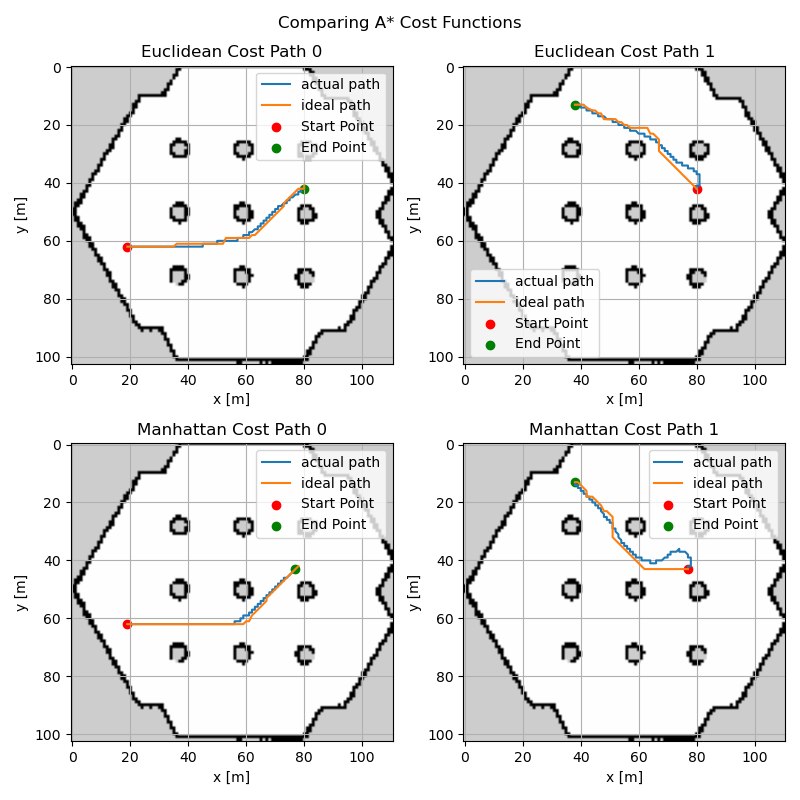
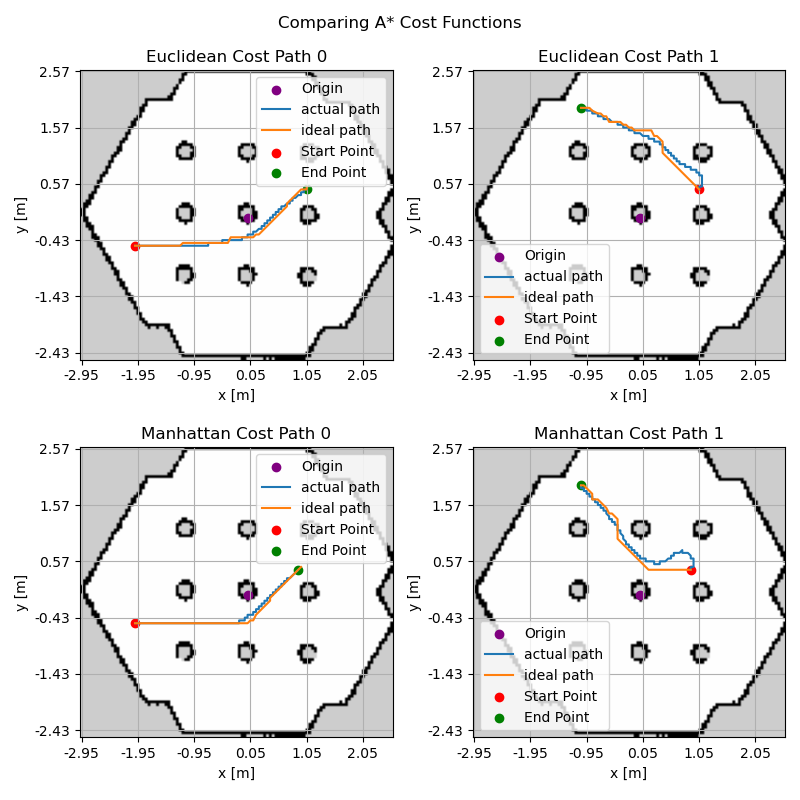
make plot ticks in meters

diff --git a/plot_planning.py b/plot_planning.py
@@ -1,17 +1,30 @@
 import matplotlib.pyplot as plt
-import matplotlib.image as mpimg
+from matplotlib.ticker import FormatStrFormatter
+import matplotlib.ticker as ticker
 import numpy as np
 from utilities import FileReader
 from mapUtilities import mapManipulator
 import rclpy
 
-def plot_planning(map_utilities, ideal, fname, ax, title):
-    # plot map
+
+def plot_planning(map_utilities, ideal, fname, ax: plt.Axes, title):
     width, height, max_value, pixels = map_utilities.read_pgm("room.pgm")
     map_data = np.array(pixels, dtype=np.uint8).reshape((height, width))
-
-    ax.imshow(map_data, cmap="gray", vmin=0, vmax=max_value)
     
+    # do way too much work to see distance on the x and y ticks
+    ticks_x = ticker.FuncFormatter(lambda x, pos: '{0:.2f}'.format(map_utilities.cell_2_position((x, 0))[0]))
+    ax.xaxis.set_major_formatter(ticks_x)
+
+    ticks_y = ticker.FuncFormatter(lambda y, pos: '{0:.2f}'.format(map_utilities.cell_2_position((0, y))[1]))
+    ax.yaxis.set_major_formatter(ticks_y)
+
+    # plot map
+    ax.imshow(map_data, cmap="gray", vmin=0, vmax=max_value)
+
+    # plot origin
+    origin = map_utilities.position_2_cell((0, 0))
+    ax.scatter(*origin, label="Origin", c="purple")
+
     # plot actual path
     headers, values=FileReader(fname).read_file()
     values = np.array(values)
